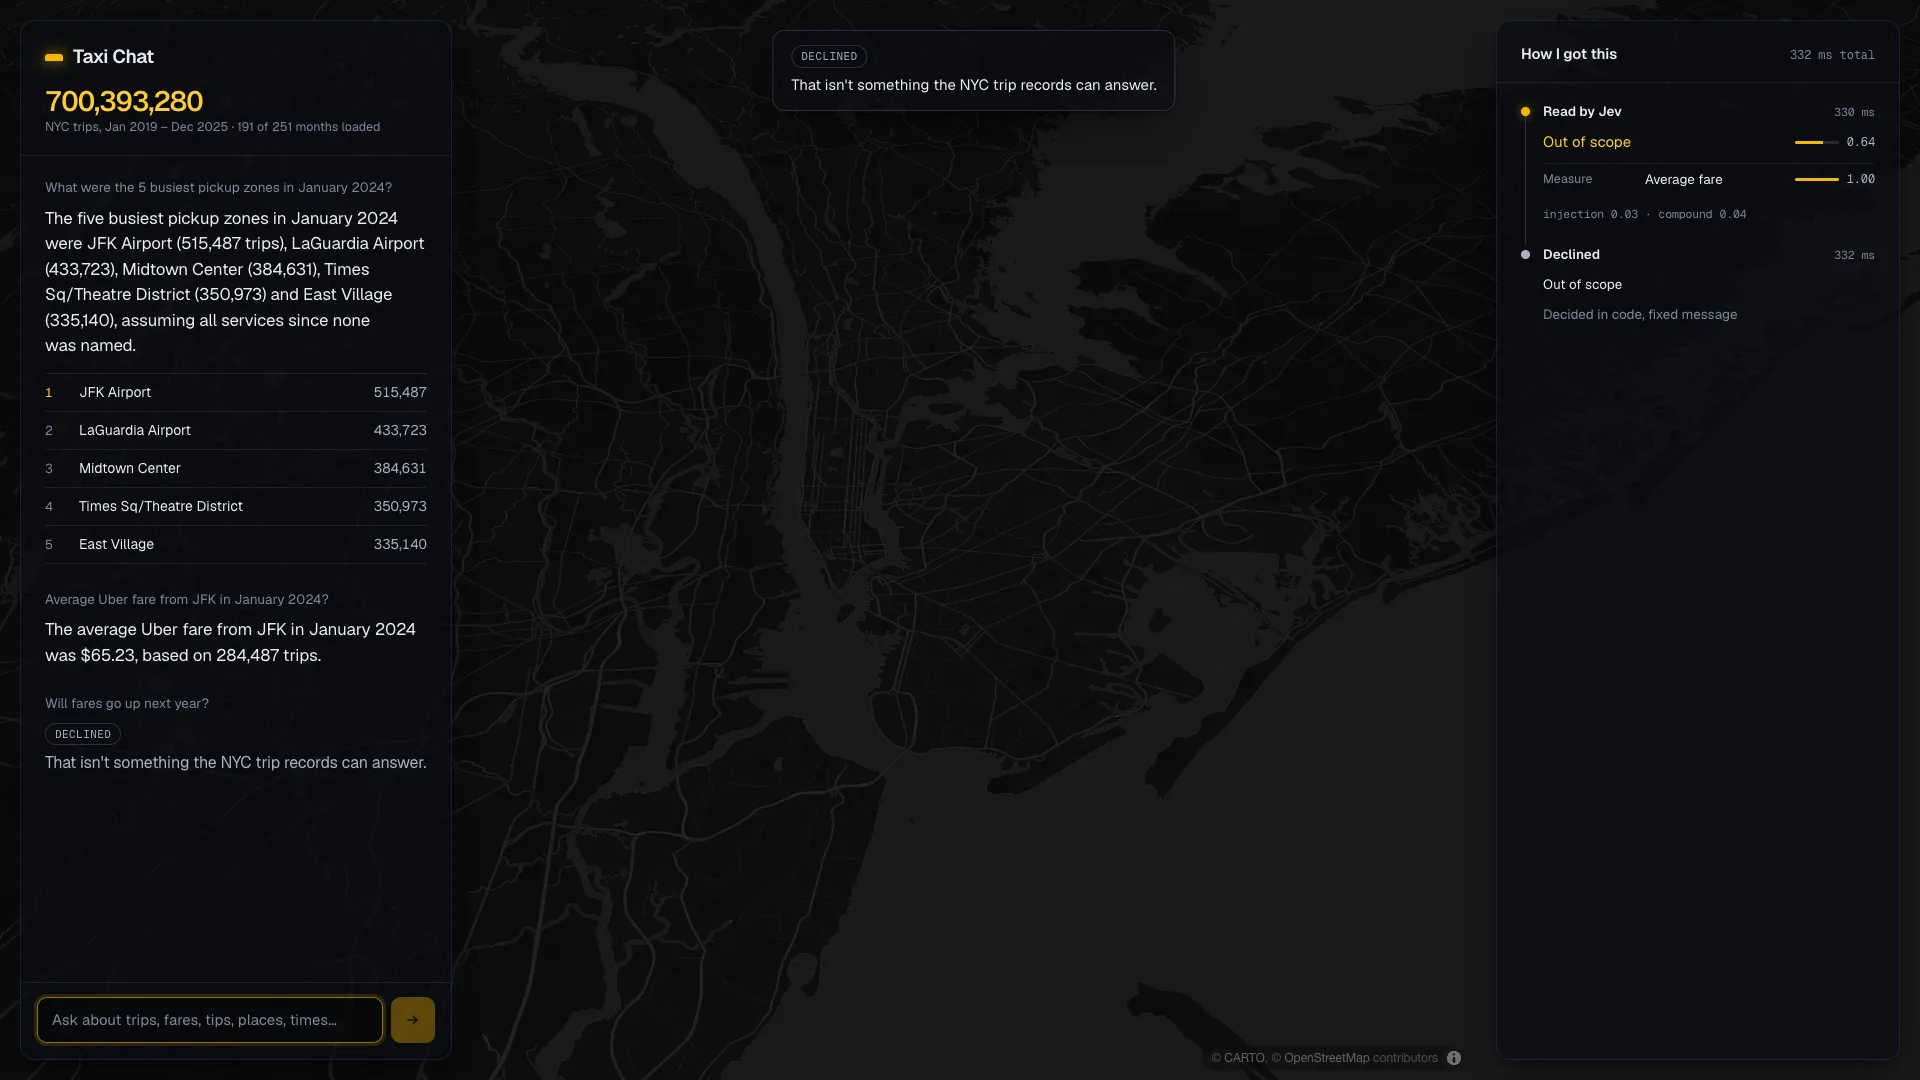
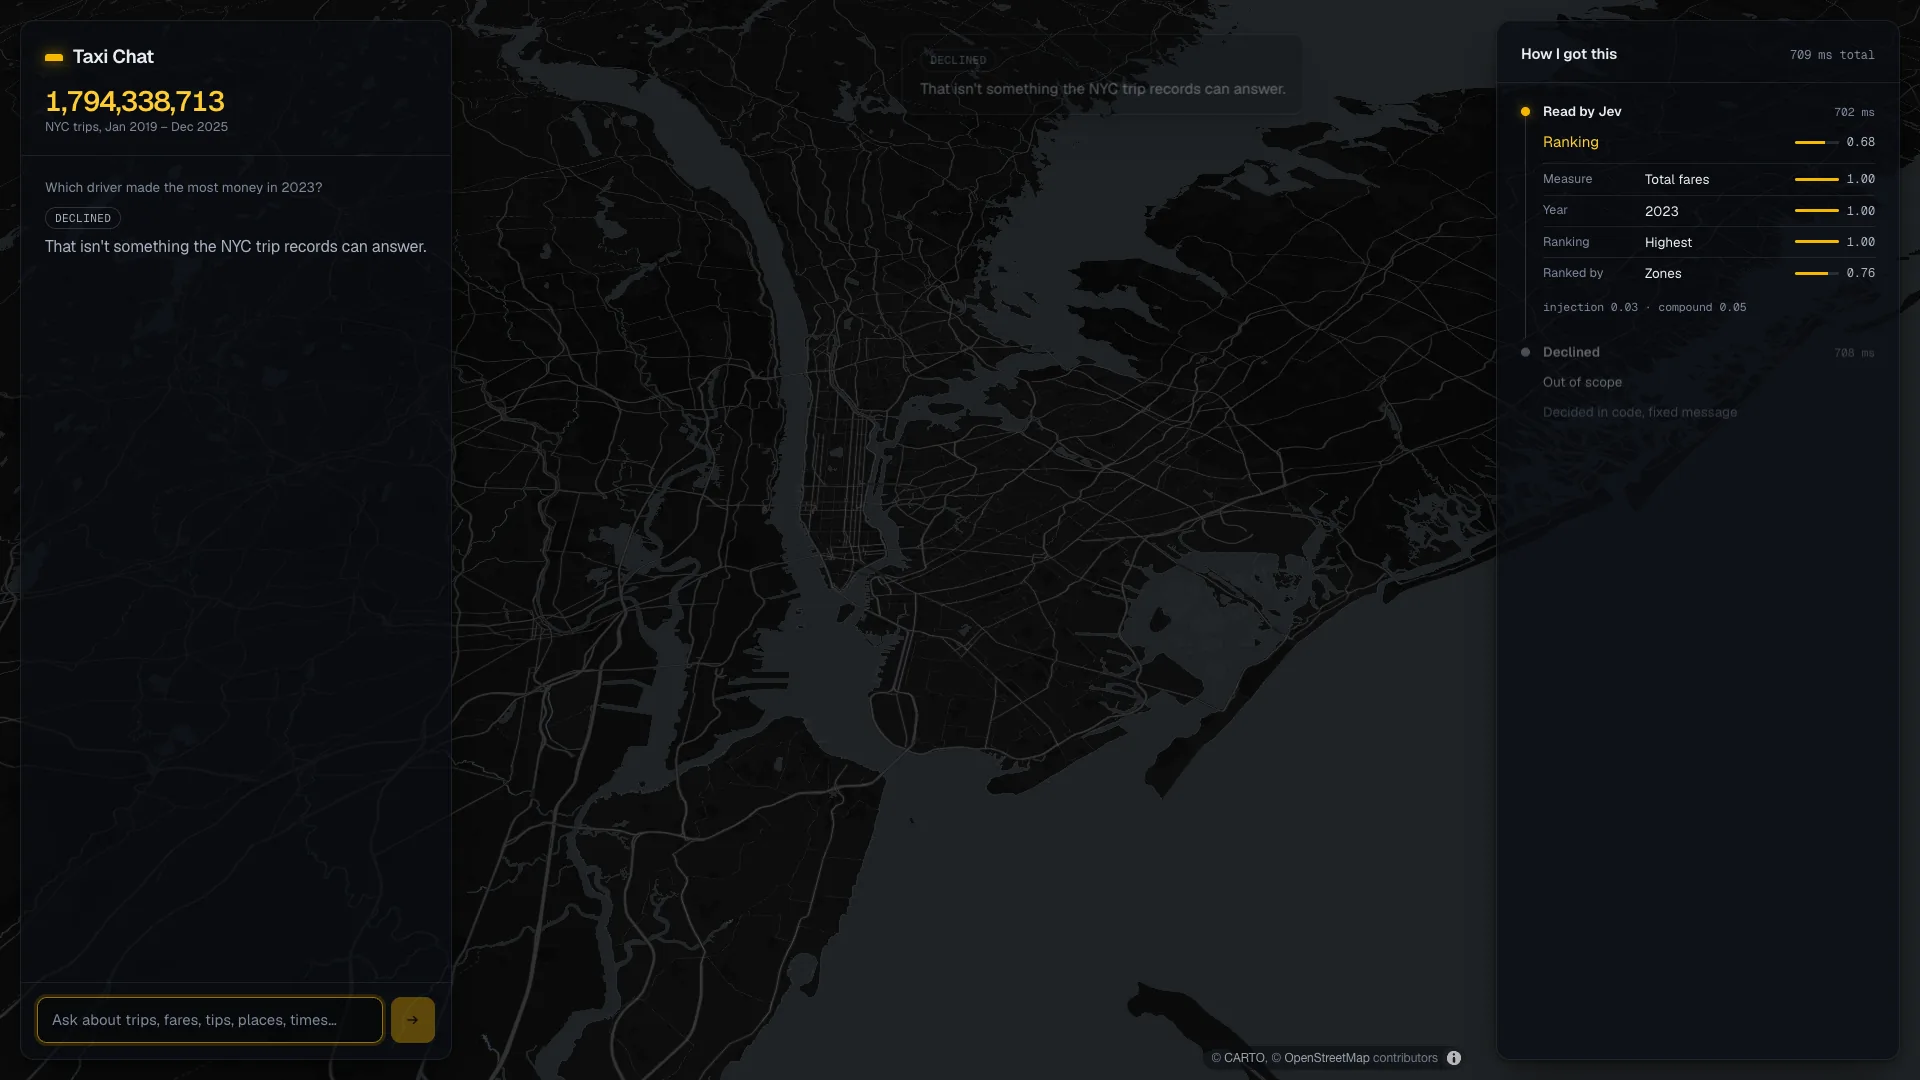
README, screenshots and demo recording (#11) (#20)
* README, fresh screenshots and a demo recording (#11)

The README leads with the held-out result and the bug it found, then how the
bot stays honest, the full results, the data and its reconciliation, what it
won't do, and how to rebuild and re-run everything. Screenshots retaken with
the full dataset loaded; the 48-second demo is a scripted Playwright recording
of the real interface against the live APIs.

* Replace the scripted demo with Patrick's screen recording, and add a looping GIF (#11)

The scripted recording ran the 3D map in software and managed about 3 real
frames a second. The new demo is a native screen recording (40 s, smooth),
and the README opens with an 11-second looping GIF of it.

* Embed the demo as a GitHub-hosted video so it plays inline (#11)

* Point the demo at the posted upload, which is publicly viewable (#11)

---------

diff --git a/README.md b/README.md
@@ -1,41 +1,171 @@
 # Taxi Chat
 
-A chatbot that answers questions about every NYC taxi and rideshare trip from
-2019 to 2025 (roughly 1.9 billion rows) and backs every number with a query you
-can inspect. Questions are routed by [Jev](https://docs.typesafe.ai), a
-calibrated classification model, and anything the bot isn't confident it can
-answer correctly is declined rather than guessed.
+A chatbot over every NYC taxi and rideshare trip from 2019 to 2025, all
+1,794,338,713 of them, that would rather decline than guess.
 
-Work in progress. The data pipeline is being built first.
+On 46 held-out questions written by a person who never tried them on the bot
+first, it answered 30 of 33 correctly and declined all 12 it should have,
+including a prompt injection. It gave no answers it should have refused. All
+three wrong answers came from one bug: New Year's Eve 2021 was a Friday, and
+the small hours of that night were counted in 2022. The held-out run is what
+found it.
 
-## Data
+[![Taxi Chat ranking the busiest pickup zones of January 2024](docs/demo.gif)](#demo)
 
-Trip records are published by the NYC Taxi & Limousine Commission. Nothing is
-committed here; the pipeline downloads and rebuilds it:
+[Watch the 40-second demo](#demo): the busiest pickup zones, Brooklyn against
+Queens, a year of monthly trips, a neighbourhood nickname (where the checker
+rejects the first reply and the second passes), and a question it declines.
+
+## Demo
+
+https://github.com/user-attachments/assets/13059032-d087-4eb7-9c16-20894d215eb9
+
+## How it stays honest
+
+Every number in a reply comes from a SQL query the page shows you, and every
+reply is checked before you see it.
+
+```mermaid
+flowchart LR
+    Q[question] --> J["Jev classifies<br/>intent, place, dates, service…<br/>each with a confidence"]
+    J --> G{"confident?<br/>in scope?"}
+    G -- no --> D[decline, with the reason]
+    G -- yes --> C["code resolves dates and places,<br/>picks a query template"]
+    C --> S[("DuckDB<br/>hourly rollups or<br/>1.8B raw trips")]
+    S --> W[DeepSeek phrases the reply]
+    W --> K{"every number in the result?<br/>size words backed by a ratio?<br/>Jev: any claim the result doesn't support?"}
+    K -- yes --> A[answer]
+    K -- "no, twice" --> T[fixed template instead]
+```
+
+- **Jev decides; code computes.** [Jev](https://docs.typesafe.ai) is a
+  classification model that returns calibrated probabilities instead of text. It
+  picks the question type, place, service, time of day and date parts from
+  closed lists. Code turns those into a query. Dates, arithmetic and place
+  matching never go through a language model, because Jev's own docs say it's
+  unreliable at them.
+- **Low confidence means decline.** Each decision carries a confidence, and
+  thresholds tuned on separate questions decide when to answer. A vague question
+  that's answerable gets stated defaults ("assuming all services, since none was
+  named"); an unclear one gets declined with the reason.
+- **The language model only phrases.** DeepSeek writes one or two sentences
+  from the query result. A checker rejects any number not in the result
+  (rounding allowed, "about 40 million" for 41.2 million not), any "doubled" or
+  "tripled" not backed by a ratio computed in code, and anything Jev judges the
+  result doesn't support. Two failures and the reply is a fixed template.
+- **Five kinds of question, single-turn:** totals and averages, rankings,
+  trends, comparisons, and distributions. Everything else is declined, including
+  questions about drivers, ratings, weather, predictions and single trips.
+
+## Results
+
+Thresholds were tuned on one set of questions and measured once on another.
+
+| | Tuning (193) | Held out (46) |
+|---|---|---|
+| Correct answers | 148 | **30** |
+| Wrong answers | 1 | **3** (one bug, see above) |
+| Answerable but declined | 2 | 1 |
+| Should be declined, and were | 42 of 42 | **12 of 12** |
+| Should be declined, but answered | 0 | **0** |
+| Correct of answered | 99.3% | **90.9%** (target was 97%) |
+| Latency p50 / p95 | 1.43 s / 1.88 s | 1.39 s / 2.18 s |
+
+- **The test set.** 72 seed questions across all five question types plus
+  should-decline cases, each with a correct answer computed by hand-written SQL
+  over the raw trips, never through the bot's templates or rollups. 12 of the
+  seeds were written by Patrick without trying them on the bot; those and their
+  rewordings are the held-out set. Rewordings (typos, slang, "Billyburg",
+  relative dates) were generated by DeepSeek, meaning-checked by a second model,
+  and reviewed by hand. 11 were dropped as duplicates or reinterpretations.
+- **Tuning.** 210 threshold combinations were swept over the tuning set. The
+  chosen point answers the most questions correctly among points where it *and
+  every neighbouring setting* reach 97% with zero answers that should have been
+  declined, so it doesn't depend on a lucky edge.
+- **The held-out run happened once**, at commit `1cc1d24`; its full output is
+  in [`eval/results/holdout.json`](eval/results/holdout.json). The New Year bug
+  it found has since been fixed with regression tests. The held-out numbers
+  above are from before the fix and weren't re-run.
+- **Option order.** Jev's docs warn it can favour the first option. Shuffling
+  every option list changed 14 of 2,560 answers (0.5%), all at confidence 0.75
+  or below, where the gate already declines or falls back to a default.
+- **Cost:** about $0.0003 per question (Jev about $0.00016, DeepSeek about
+  $0.00012, at DeepSeek's peak rates).
+
+## The data
+
+NYC Taxi & Limousine Commission trip records for yellow taxis, green taxis and
+high-volume rideshare (Uber, Lyft), January 2019 to December 2025.
+
+| | Trips |
+|---|---|
+| Yellow | 303,271,778 |
+| Green | 11,921,164 |
+| Rideshare | 1,479,145,771 |
+| **Kept** | **1,794,338,713** |
+| Rejected | 6,157,770 (0.34%) |
+
+- **Seven years of schema drift handled in one place:** a renamed fee column,
+  INT32/INT64/DOUBLE changes, and a new congestion fee in 2025.
+- **Every rejected row is counted by reason.** Most are refunds and voids
+  (5.96M negative amounts); the rest are dropoffs before pickups, impossible
+  distances, trips filed in the wrong month, and trips over 24 hours.
+- **The hourly rollups reconcile exactly** with the raw rows: trip counts match
+  for every service, and dollar totals match an exact decimal sum to the cent.
+- **Sizes:** 40 GB downloaded, 21 GB cleaned, 785 MB of rollups. Rankings and
+  totals come from the rollups in milliseconds; distributions and drop-off
+  questions scan the raw trips (22.6M trips in about 0.2 s, a full year in a
+  few seconds).
+
+## What it won't do
+
+- Follow-up questions, or anything outside the five question types.
+- Joins to other data (weather, events), or questions about one trip or person.
+- Run live anywhere. The demo is the recording; the data stays local.
+
+Known limits: the held-out set is small (33 answered questions), so read the
+percentages as counts. Latency was measured on one Apple M1 Max laptop. In
+comparisons, the trace panel's summary names only the first place compared.
+
+## Running it
 
 ```sh
+uv sync
+
+# Data (about 40 GB to download, an hour or so)
 uv run python -m pipeline.download --from 2019-01 --to 2025-12
 uv run python -m pipeline.normalise --from 2019-01 --to 2025-12
-```
+uv run python -m pipeline.rollup --from 2019-01 --to 2025-12
+uv run python -m pipeline.report
 
-## Running the interface
+# Tests: run offline against recorded Jev and DeepSeek responses
+uv run pytest
 
-Keys go in `.env` (`TYPESAFE_API_KEY`, and `DEEPSEEK_API_KEY` for phrased
-replies; without it replies come from fixed templates).
-
-```sh
-cd web && npm install && npm run build && cd ..
+# Interface. Keys go in .env: TYPESAFE_API_KEY, and DEEPSEEK_API_KEY for
+# phrased replies (without it, replies come from the fixed templates).
+cd web && npm ci && npm run build && cd ..
 uv run --env-file .env uvicorn taxichat.server:app   # http://127.0.0.1:8000
+
+# Benchmark
+uv run python -m eval.gold                            # correct answers from the raw trips
+uv run python -m eval.run tune                         # replays the committed Jev cache
+uv run --env-file .env python -m eval.run report       # tuning set, live
 ```
 
-FastAPI serves the built page from `web/dist`. For work on the interface, run
-the API as above and `npm run dev` in `web/`; Vite proxies `/api` to port 8000.
-`TAXI_DATA_DIR` points the server at a data directory other than `data/`.
+For work on the interface, run the API as above and `npm run dev` in `web/`;
+Vite proxies `/api` to port 8000. `TAXI_DATA_DIR` points the server at a data
+directory other than `data/`.
 
 The zone shapes in `web/public/zones.geojson` are NYC TLC's taxi zone
-boundaries (NYC Open Data), reprojected to WGS84 and simplified with
-mapshaper. The basemap is CARTO's Dark Matter (© CARTO, © OpenStreetMap
-contributors).
+boundaries (NYC Open Data), reprojected to WGS84 and simplified with mapshaper.
+The basemap is CARTO's Dark Matter (© CARTO, © OpenStreetMap contributors).
+
+## Screenshots
+
+| | |
+|---|---|
+| ![Brooklyn and Queens compared](docs/screenshots/compare.webp) | ![Monthly yellow cab trips in 2020](docs/screenshots/trend.webp) |
+| ![Share of short yellow cab trips](docs/screenshots/distribution.webp) | ![A question about drivers, declined](docs/screenshots/declined.webp) |
 
 ## Licence
 
